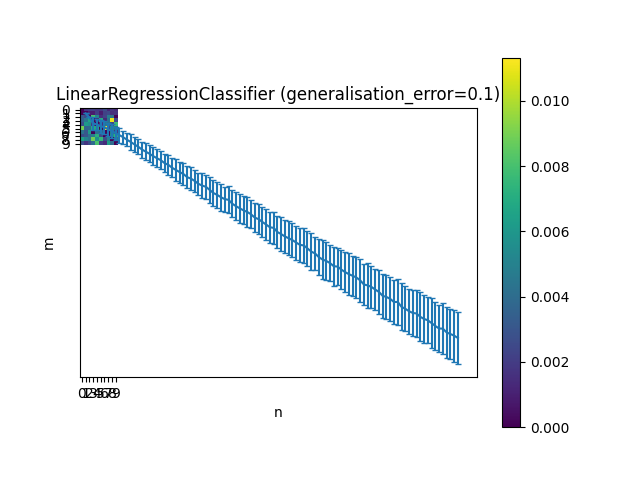
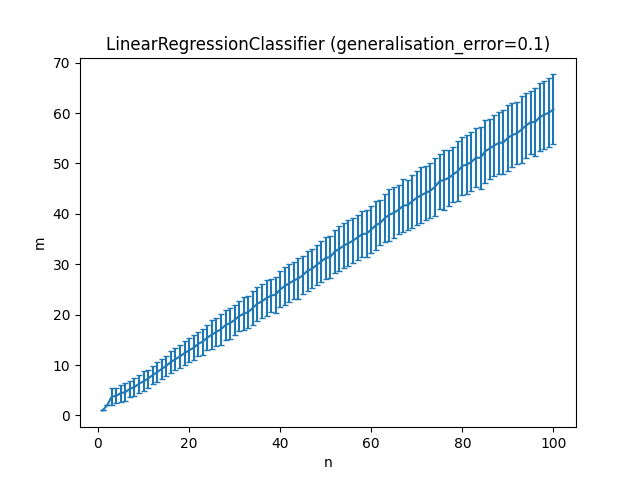
update outputs

diff --git a/main.py b/main.py
@@ -185,11 +185,11 @@ if __name__ == "__main__":
         use_default_update_method=False,
     )
 
-    # # Question 2
-    # PART_2_OUTPUT_FOLDER = os.path.join(OUTPUTS_FOLDER, "part2")
-    # if not os.path.exists(PART_2_OUTPUT_FOLDER):
-    #     os.makedirs(PART_2_OUTPUT_FOLDER)
-    # q2()
+    # Question 2
+    PART_2_OUTPUT_FOLDER = os.path.join(OUTPUTS_FOLDER, "part2")
+    if not os.path.exists(PART_2_OUTPUT_FOLDER):
+        os.makedirs(PART_2_OUTPUT_FOLDER)
+    q2()
 
     # Question 3
     PART_3_OUTPUT_FOLDER = os.path.join(OUTPUTS_FOLDER, "part3")
